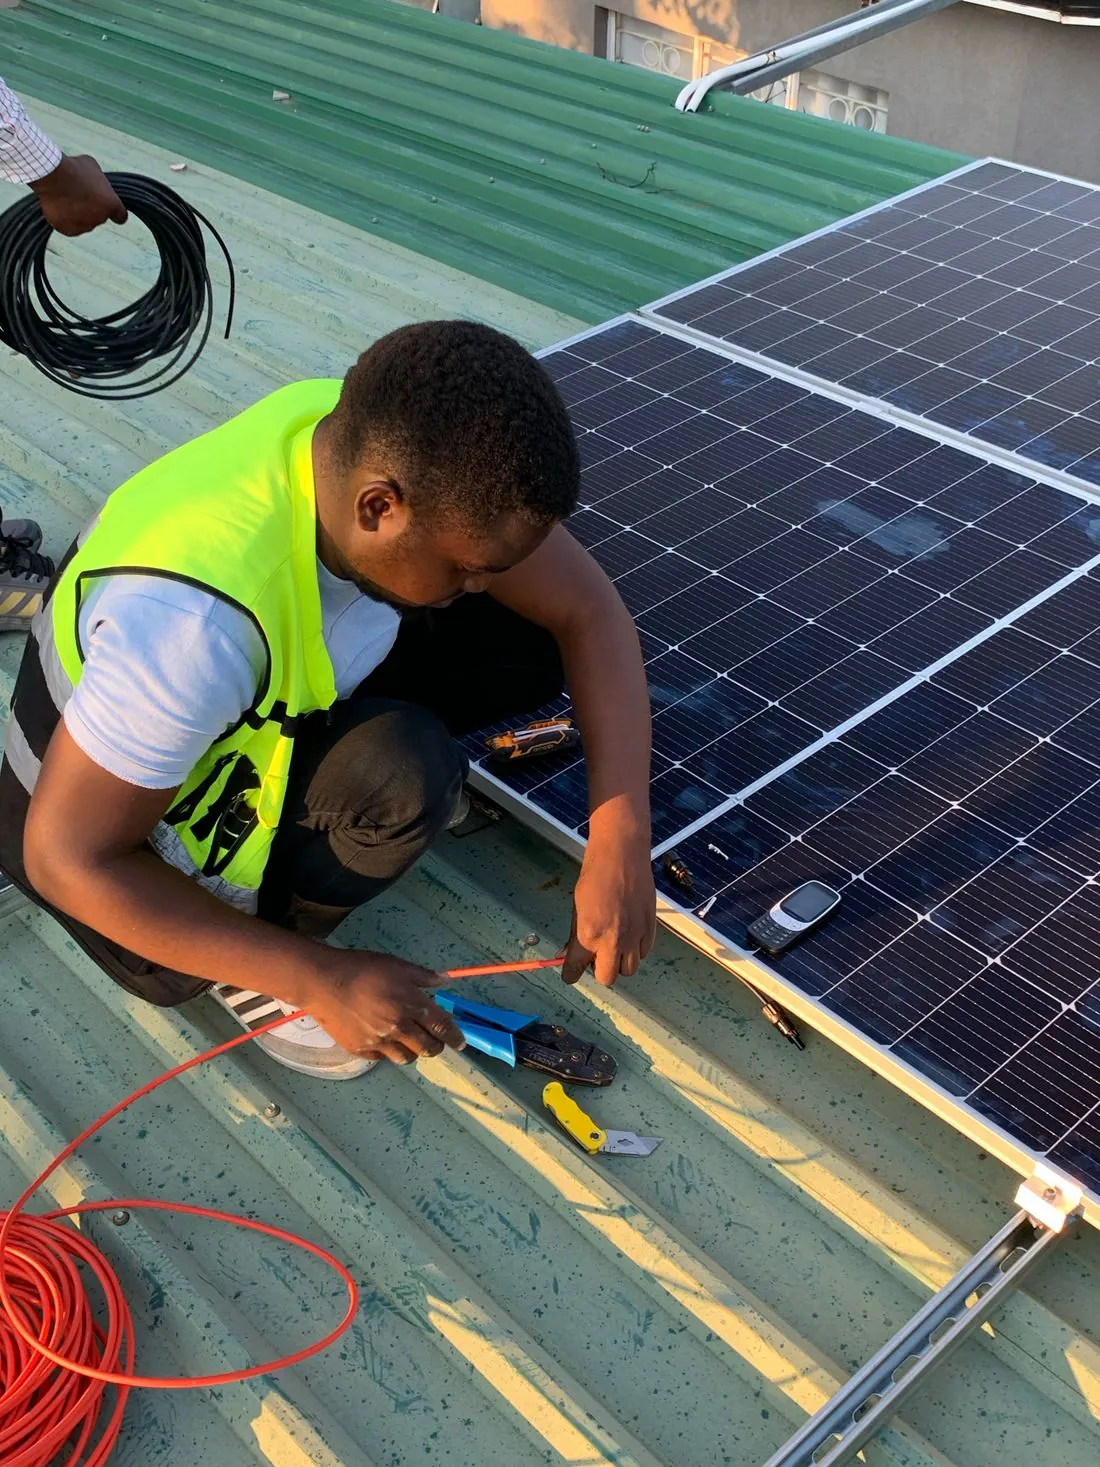
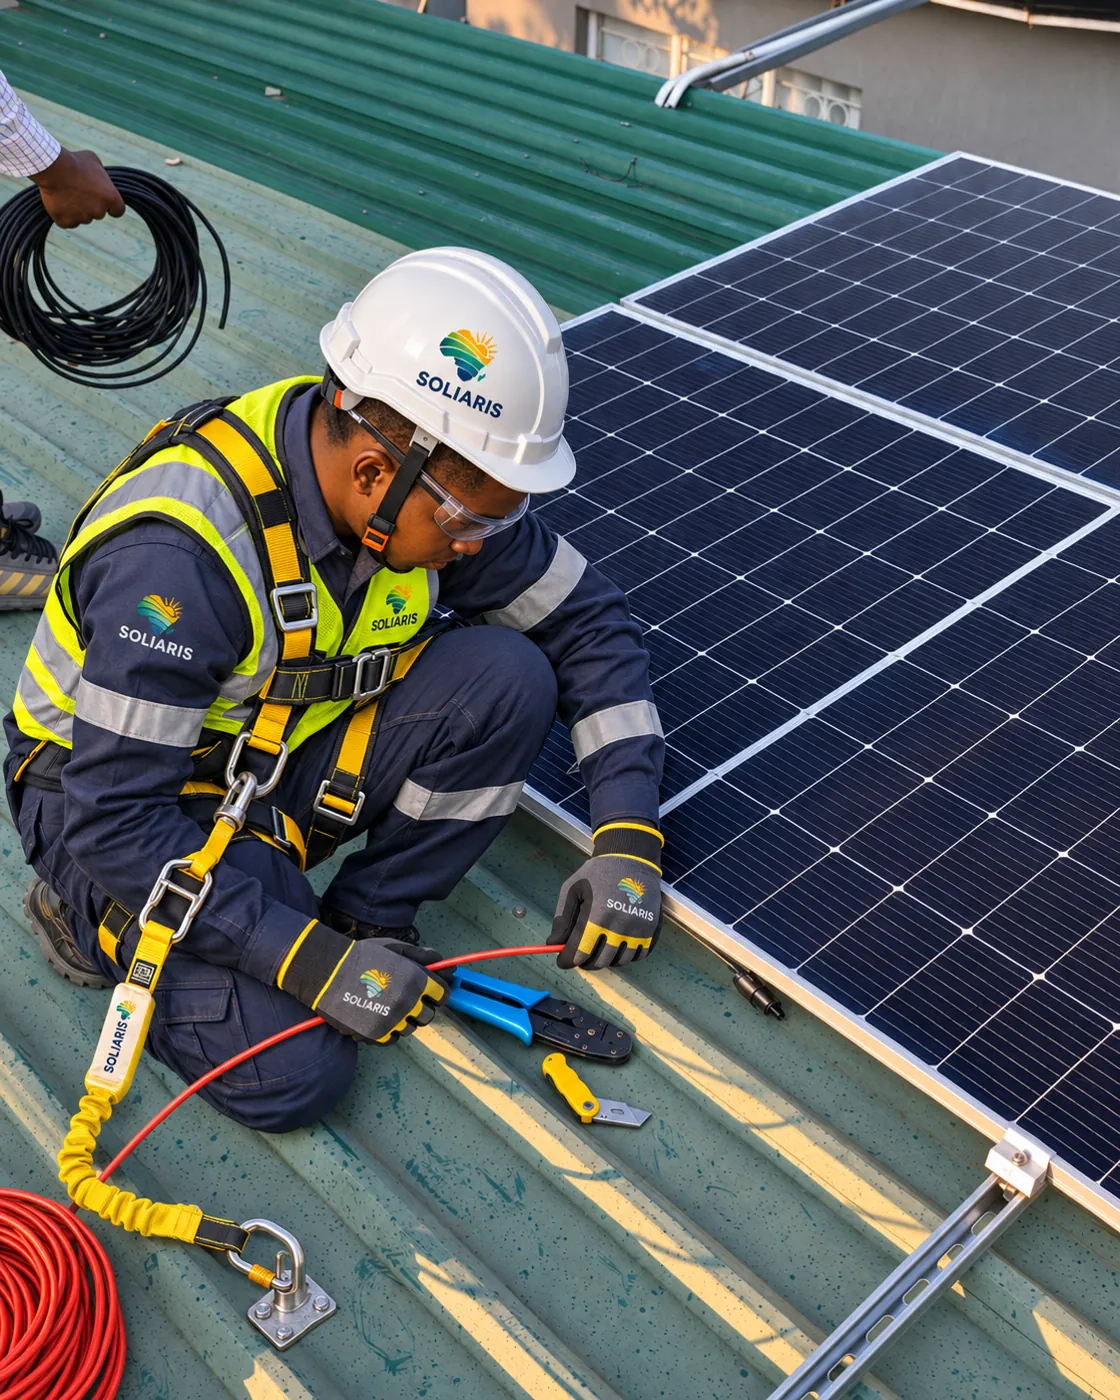
Replace Impact page commitment photo with rooftop technician image

diff --git a/src/pages/Impact.tsx b/src/pages/Impact.tsx
@@ -129,7 +129,7 @@ export default function ImpactPage() {
         <figure className="relative m-0 min-h-[380px] min-w-[min(320px,100%)] flex-[1_1_440px]">
           <img
             src="/images/impact-commitment.webp"
-            alt="African technician in a safety vest installing a solar panel"
+            alt="SOLIARIS technician in a hard hat and safety harness wiring solar panels on a rooftop"
             loading="lazy"
             className="absolute inset-0 h-full w-full object-cover"
             style={{ objectPosition: "center 30%" }}
